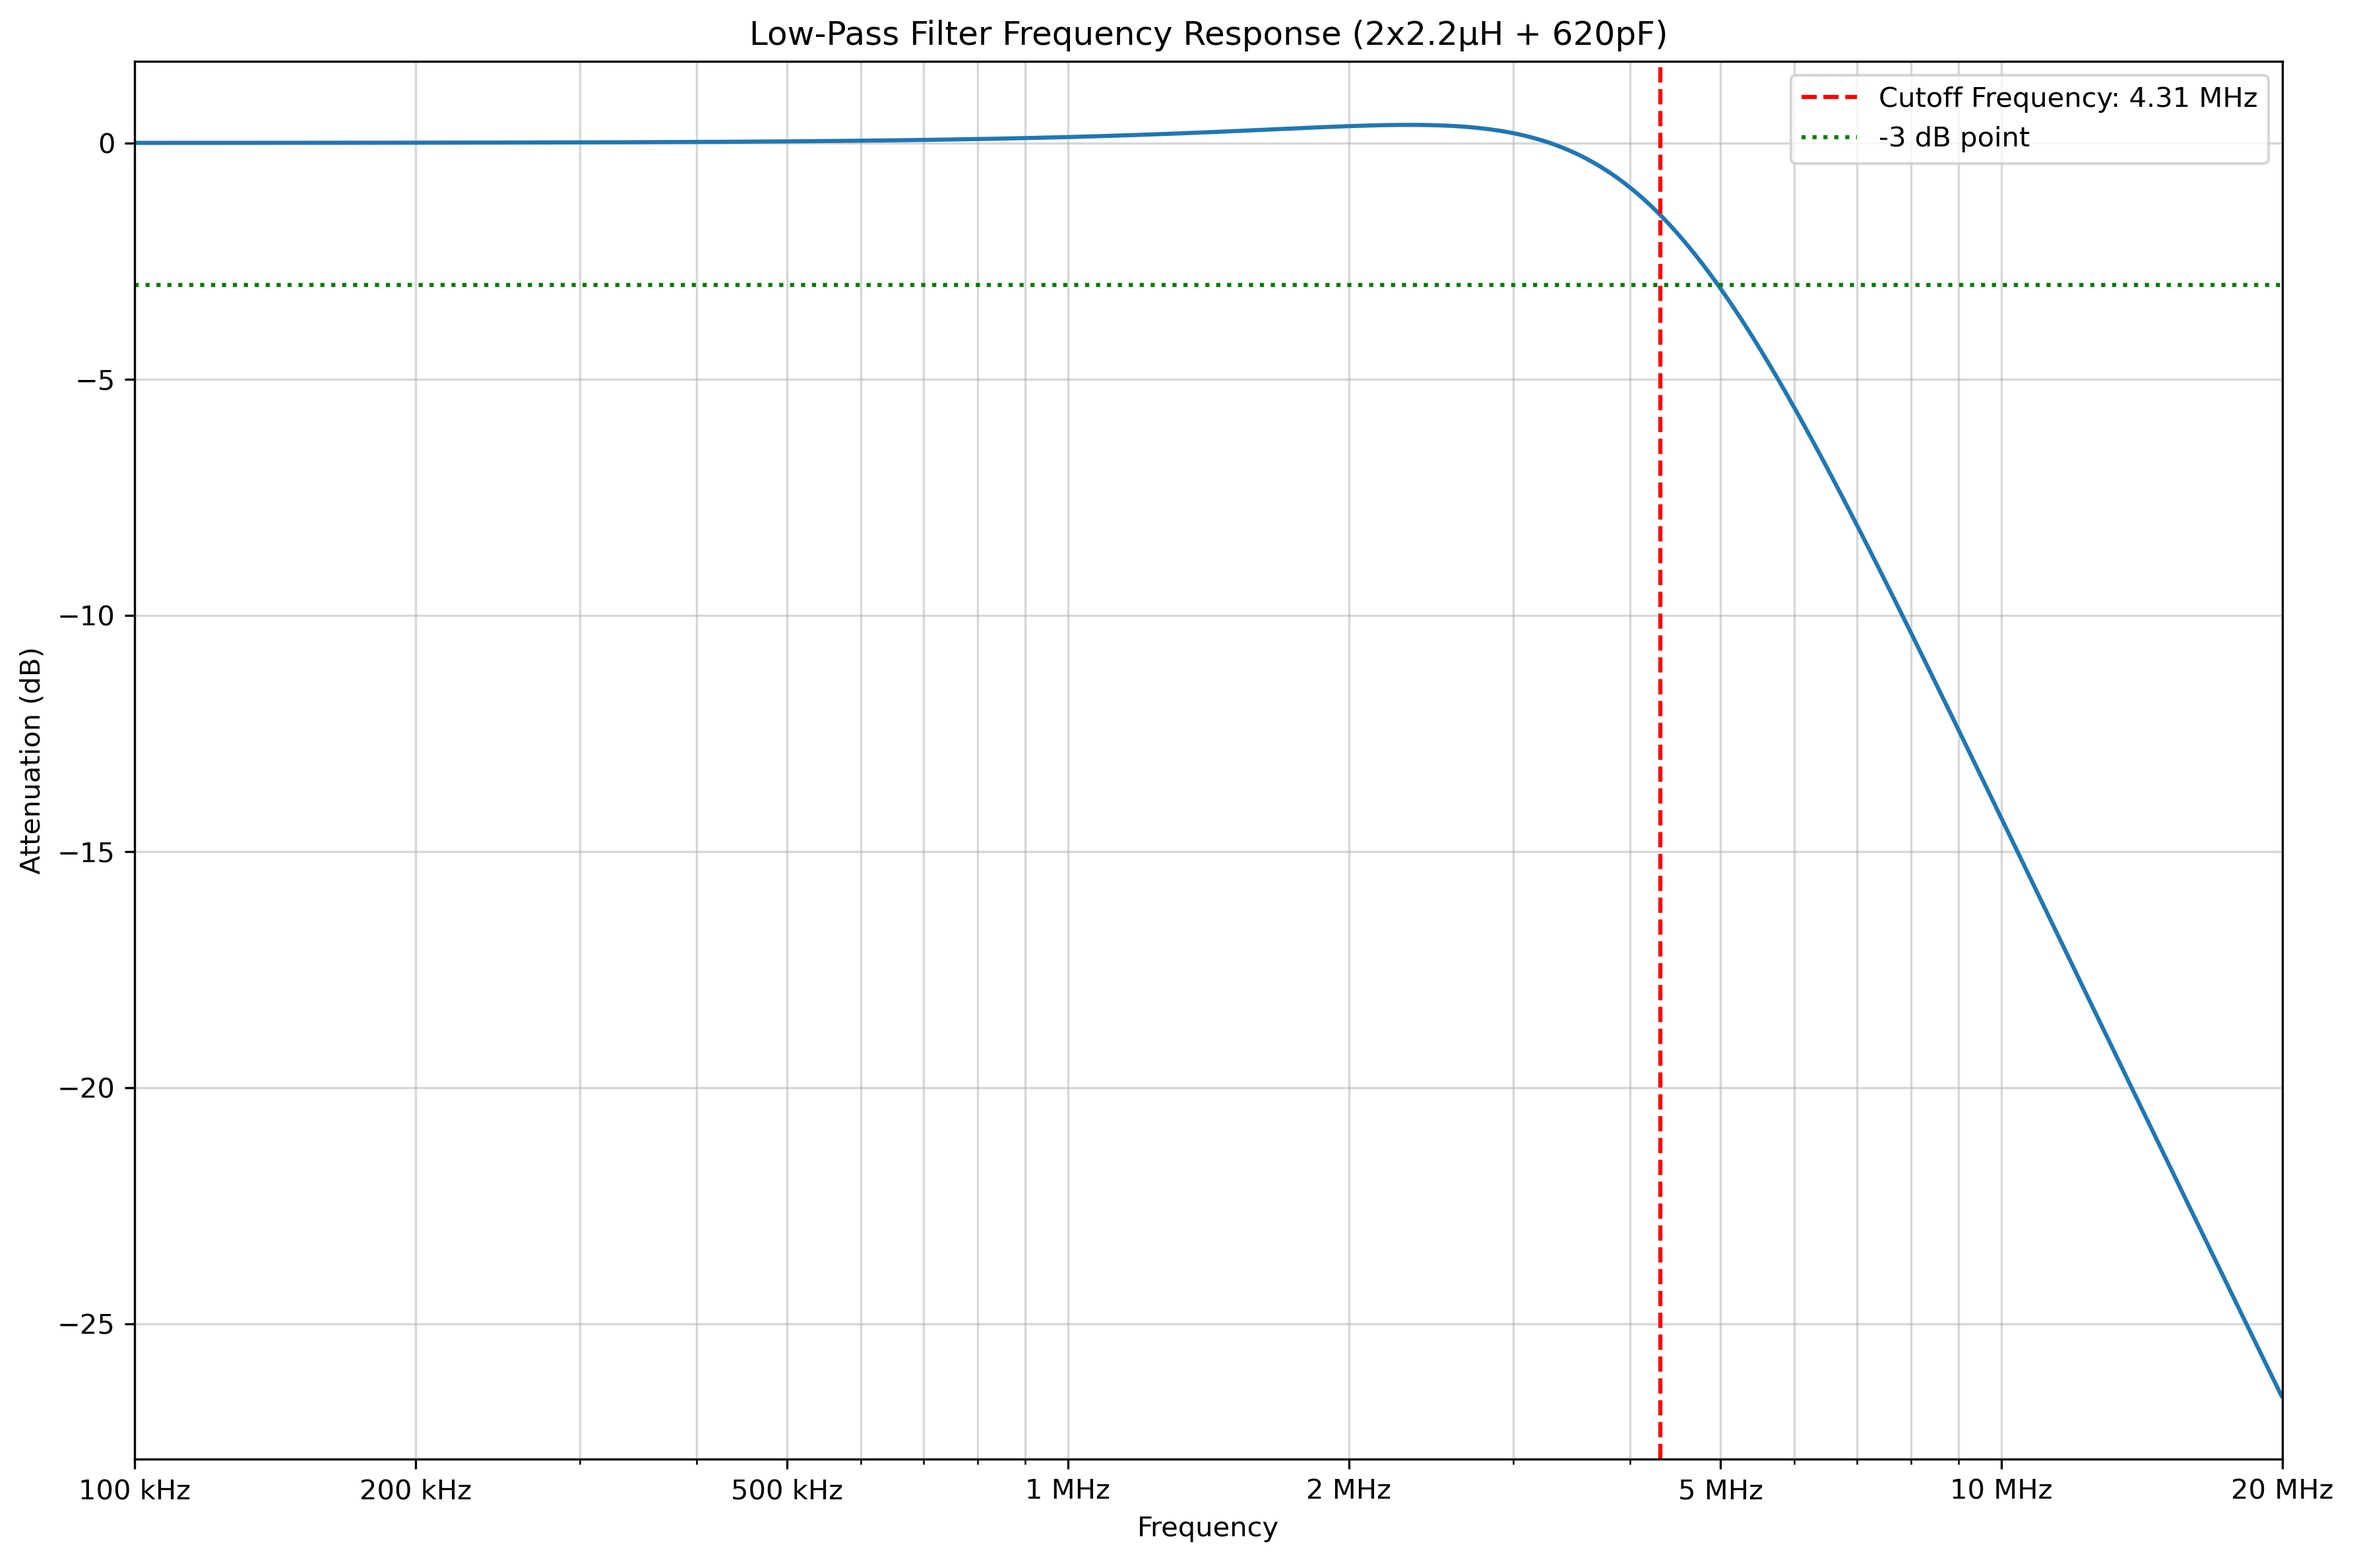
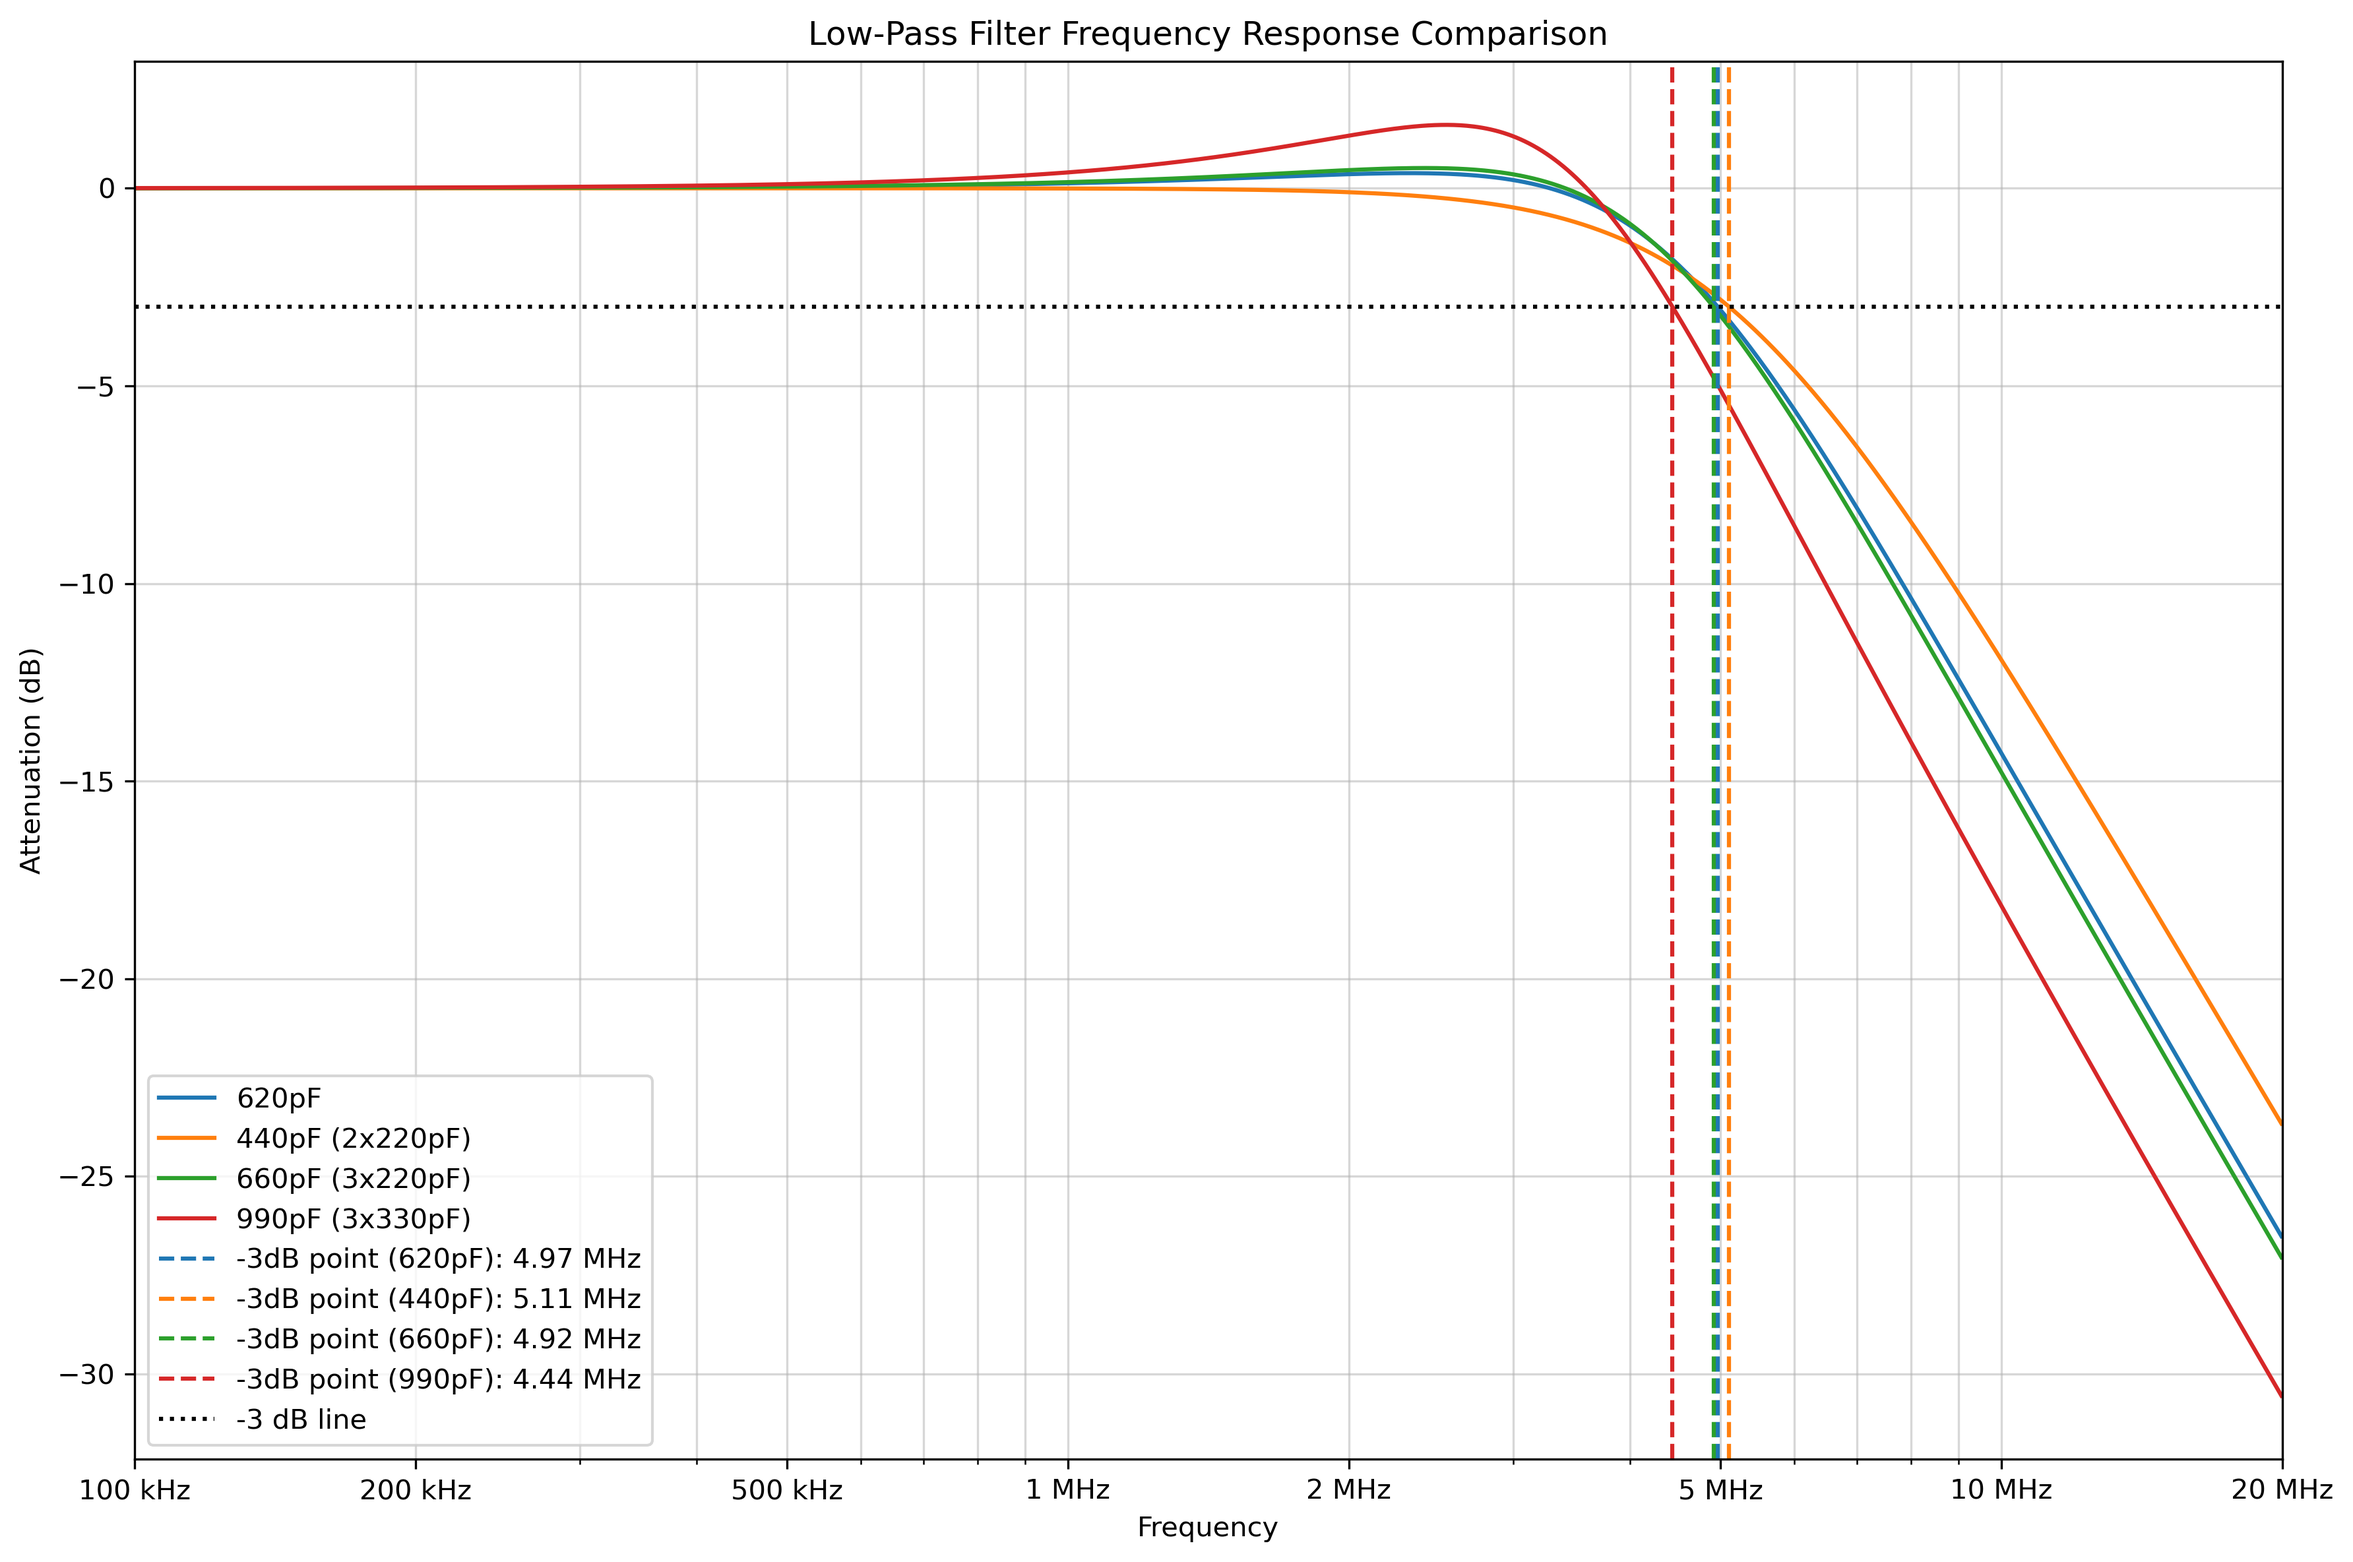
Better comparison model

diff --git a/doc/filter-models/cd2003-rf-low-pass-filter/cd2003-rf-low-pass-filter.py b/doc/filter-models/cd2003-rf-low-pass-filter/cd2003-rf-low-pass-filter.py
@@ -1,35 +1,51 @@
 import numpy as np
 import matplotlib.pyplot as plt
-from scipy.signal import freqs
+from scipy.interpolate import interp1d
 import os
 
 # Component values
 L = 2.2e-6  # 2.2 µH
-C = 620e-12  # 620 pF
-
-# Calculate cutoff frequency
-fc = 1 / (2 * np.pi * np.sqrt(L * C))
+C1 = 620e-12  # 620 pF (current configuration)
+C2 = 440e-12  # 440 pF (2 x 220pF in parallel)
+C3 = 660e-12  # 660 pF (3 x 220pF in parallel)
+C4 = 990e-12  # 990 pF (3 x 330pF in parallel)
 
 # Create frequency range (100 kHz to 20 MHz)
 f = np.logspace(5, 7.3, num=1000)
 w = 2 * np.pi * f
 
-# Calculate transfer function
-s = 1j * w
-H = 1 / (1 + s**2 * L * C + s * L / 50)  # Assuming 50 ohm source impedance
+# Calculate transfer functions
+def calc_H(L, C, w):
+    s = 1j * w
+    return 1 / (1 + s**2 * L * C + s * L / 50)
 
-# Calculate magnitude in dB
-mag_db = 20 * np.log10(np.abs(H))
+H1, H2, H3, H4 = map(calc_H, [L]*4, [C1, C2, C3, C4], [w]*4)
+
+# Calculate magnitudes in dB
+mag_db1, mag_db2, mag_db3, mag_db4 = map(lambda H: 20 * np.log10(np.abs(H)), [H1, H2, H3, H4])
+
+# Find -3dB points
+def find_3db_point(f, mag_db):
+    interp = interp1d(mag_db, f, kind='linear')
+    return interp(-3)
+
+fc1, fc2, fc3, fc4 = map(find_3db_point, [f]*4, [mag_db1, mag_db2, mag_db3, mag_db4])
+
+# Define colors for each configuration
+colors = ['#1f77b4', '#ff7f0e', '#2ca02c', '#d62728']
 
 # Create the plot
 plt.figure(figsize=(12, 8))
-plt.semilogx(f, mag_db)
+plt.semilogx(f, mag_db1, color=colors[0], label='620pF')
+plt.semilogx(f, mag_db2, color=colors[1], label='440pF (2x220pF)')
+plt.semilogx(f, mag_db3, color=colors[2], label='660pF (3x220pF)')
+plt.semilogx(f, mag_db4, color=colors[3], label='990pF (3x330pF)')
 plt.grid(True, which="both", ls="-", alpha=0.5)
 
 # Set up the axes
 plt.xlabel('Frequency')
 plt.ylabel('Attenuation (dB)')
-plt.title('Low-Pass Filter Frequency Response (2x2.2µH + 620pF)')
+plt.title('Low-Pass Filter Frequency Response Comparison')
 
 # Configure x-axis
 plt.xlim(1e5, 2e7)
@@ -37,11 +53,12 @@ freq_ticks = [1e5, 2e5, 5e5, 1e6, 2e6, 5e6, 1e7, 2e7]
 freq_labels = ['100 kHz', '200 kHz', '500 kHz', '1 MHz', '2 MHz', '5 MHz', '10 MHz', '20 MHz']
 plt.xticks(freq_ticks, freq_labels)
 
-# Add vertical line at cutoff frequency
-plt.axvline(x=fc, color='r', linestyle='--', label=f'Cutoff Frequency: {fc/1e6:.2f} MHz')
+# Add vertical lines at -3dB points
+for fc, color, label in zip([fc1, fc2, fc3, fc4], colors, ['620pF', '440pF', '660pF', '990pF']):
+    plt.axvline(x=fc, color=color, linestyle='--', label=f'-3dB point ({label}): {fc/1e6:.2f} MHz')
 
 # Add horizontal line at -3 dB
-plt.axhline(y=-3, color='g', linestyle=':', label='-3 dB point')
+plt.axhline(y=-3, color='k', linestyle=':', label='-3 dB line')
 
 plt.legend()
 plt.tight_layout()
